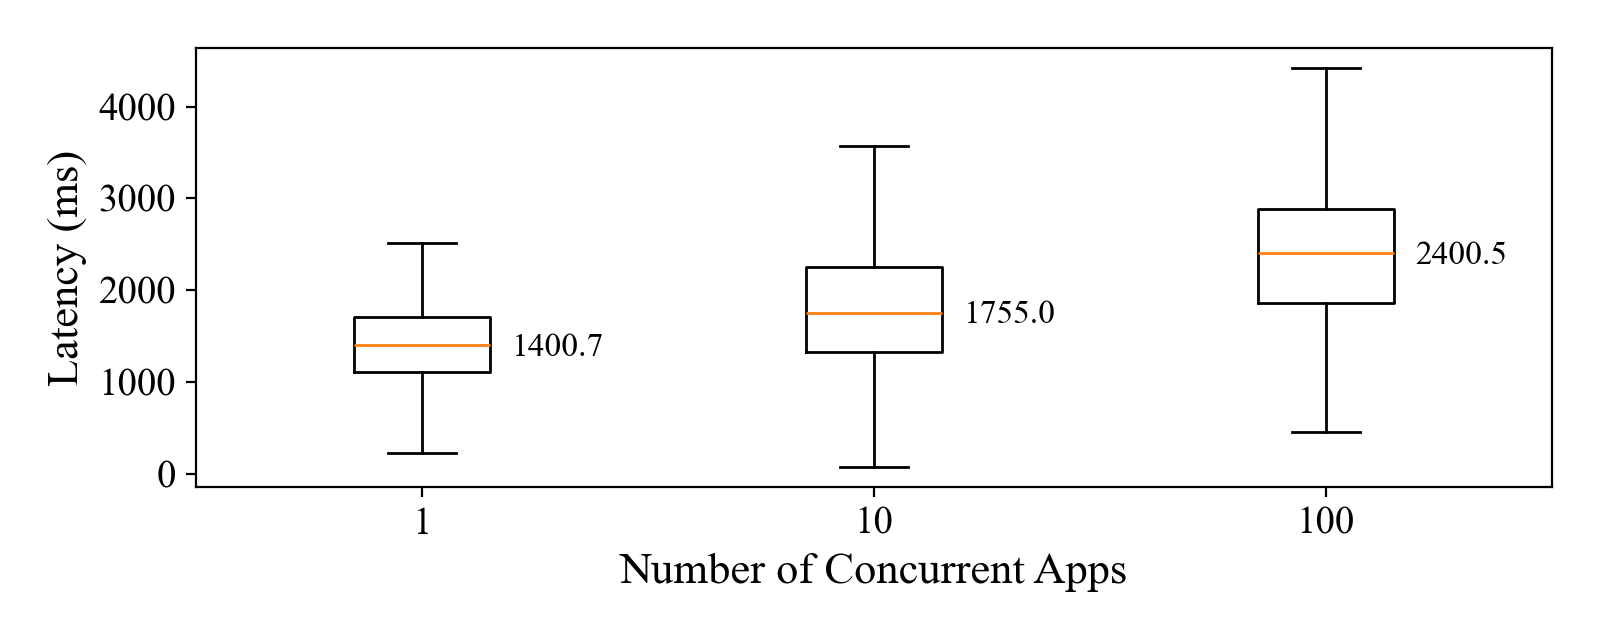
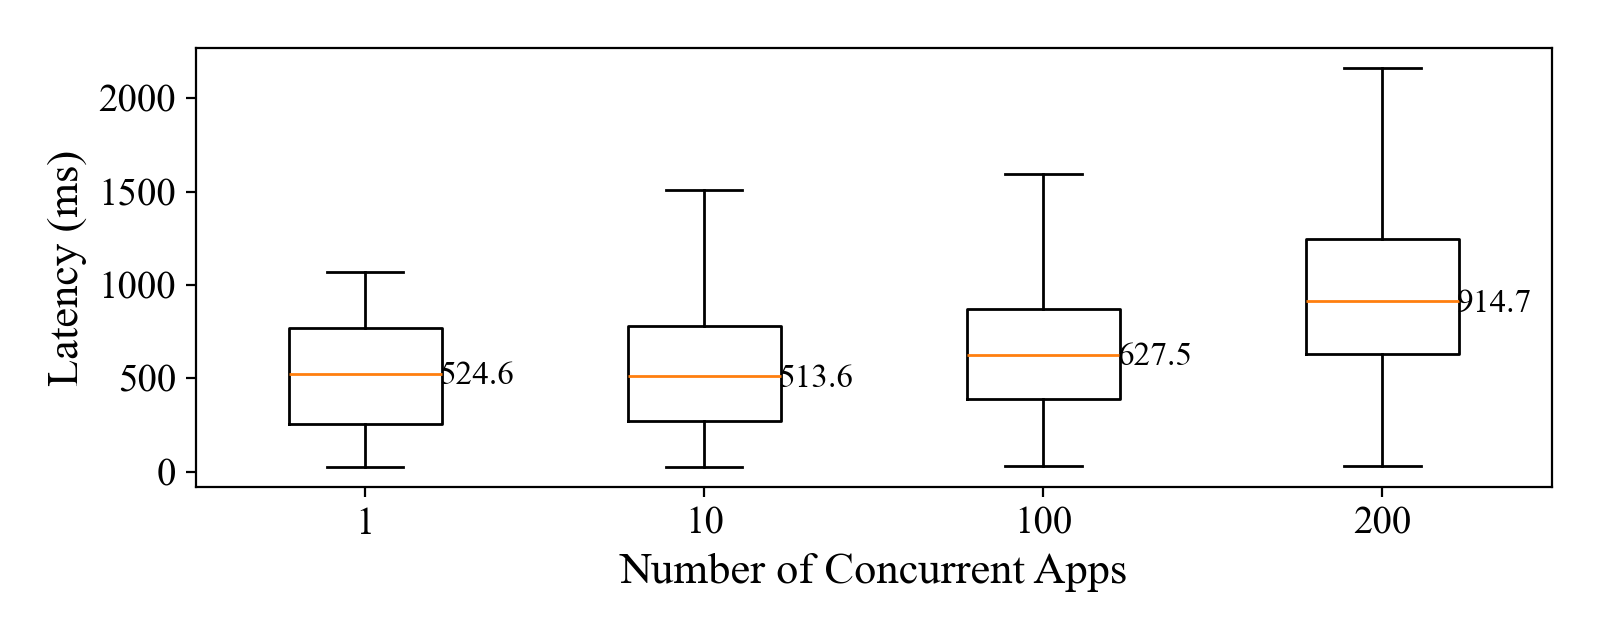
update scalability results

diff --git a/scripts/benchmark/scalability/visual.py b/scripts/benchmark/scalability/visual.py
@@ -22,7 +22,9 @@ def load_df(path: Path) -> pl.DataFrame:
     if not path.exists():
         raise FileNotFoundError(f"File not found: {path}")
 
-    df = pl.read_csv(path)
+    df = pl.read_csv(path, columns=LAT_COLS)
+    # remove rows with any negative latencies
+    df = df.filter(pl.all_horizontal(pl.col(LAT_COLS) >= 0))
 
     missing = [c for c in LAT_COLS if c not in df.columns]
     if missing:
@@ -77,12 +79,15 @@ def boxplot_one_column(
     y_offset = (y_max - y_min) * 0.04
     for i, m in enumerate(medians, start=1):
         if np.isfinite(m):
-            ax.text(i+0.3, m-y_offset, f"{m:.1f}", ha="center", va="bottom", fontsize=12)
+            ax.text(i+0.33, m-y_offset, f"{m:.1f}", ha="center", va="bottom", fontsize=12)
 
     # ax.set_title(col)
     ax.set_ylabel("Latency (ms)")
     ax.set_xlabel("Number of Concurrent Apps")
     plt.tight_layout()
+    #log scale if needed
+    # if col == "latency_received_to_completed_ms":
+    #     ax.set_yscale("log")
 
     out_path.parent.mkdir(parents=True, exist_ok=True)
     plt.savefig(out_path, dpi=200)
@@ -95,9 +100,9 @@ def main() -> None:
     )
     parser.add_argument(
         "csvs",
-        nargs=3,
+        nargs=4,
         type=Path,
-        help="Three CSV files to compare (exactly 3).",
+        help="Four CSV files to compare (exactly 4).",
     )
     parser.add_argument(
         "--outdir",
